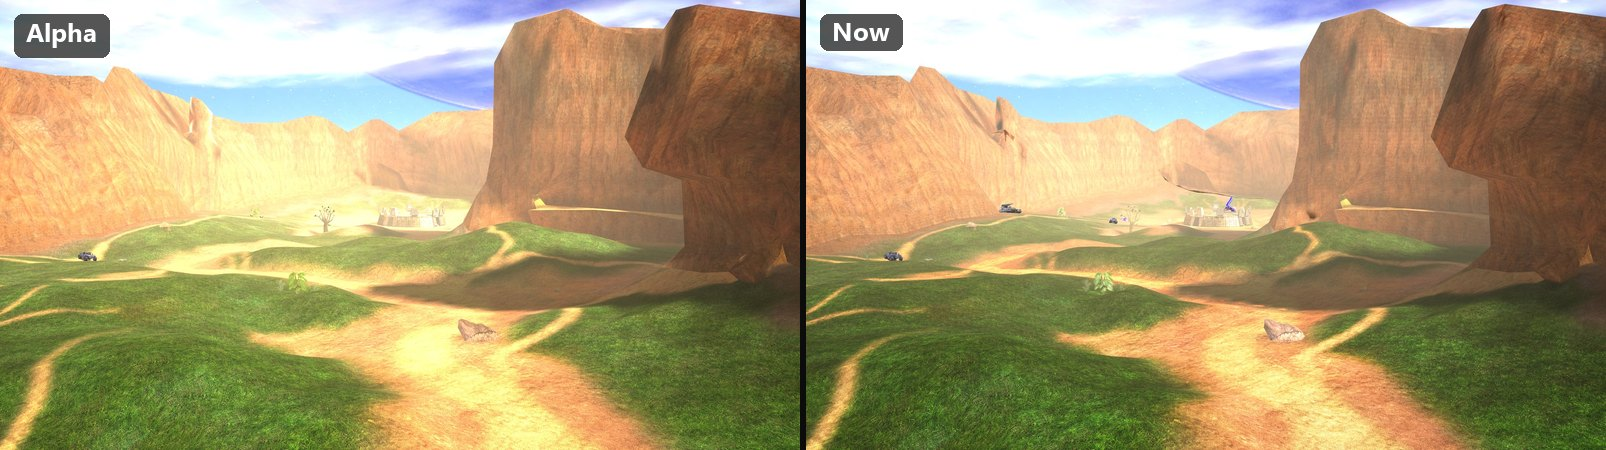
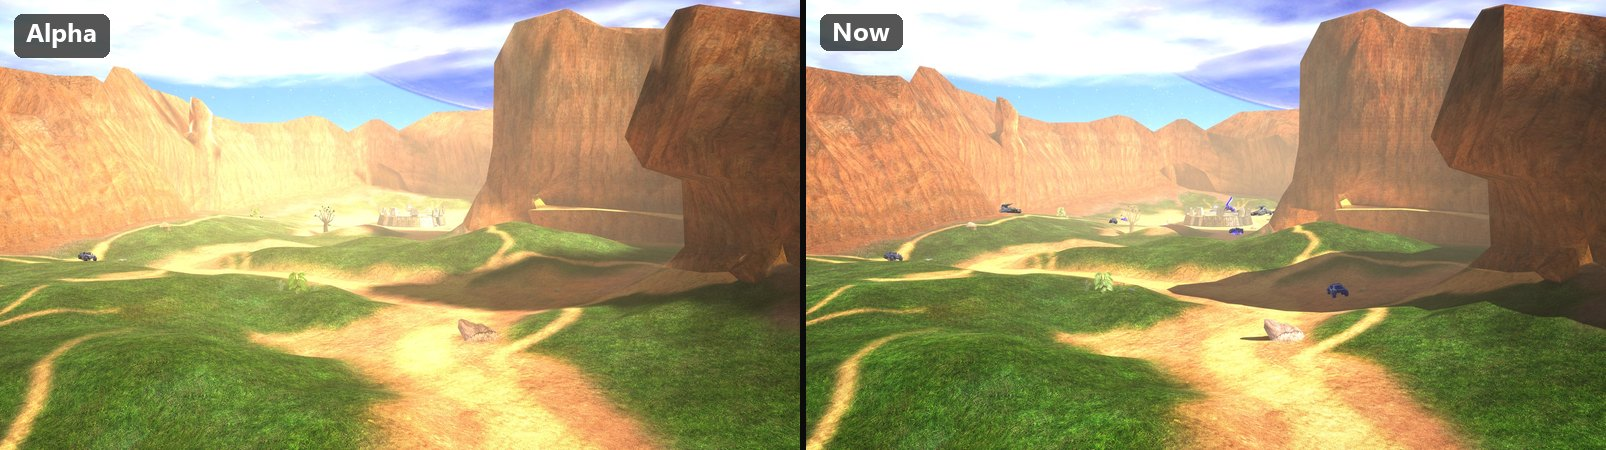
Blog: lighting the classics, updated for the 1.3.0 maps baked by our own solver

diff --git a/blog/2026-10-07-lighting-the-classics.md b/blog/2026-10-07-lighting-the-classics.md
@@ -1,13 +1,18 @@
 # Lighting the classics: teaching Unreal Engine to light Halo CE's maps
 
 **Author:** MJOLNIR Core
-**Summary:** The nineteen classic maps are now lit by Unreal Engine while still looking like Halo CE. Warthog headlights light the road, vehicles cast shadows, and Blood Gulch's corners have depth. Here is how we got there.
+**Summary:** The nineteen classic maps are lit by Unreal Engine while still looking like Halo CE, and since 1.3.0 their lightmaps are baked by our own solver at up to eight times Halo CE's resolution. Crisp shadows, lit bases, headlights on the road. Here is how we got there.
 **Tags:** multiplayer, maps, lighting
 
 ![Blood Gulch, lit by Unreal Engine with Halo CE's colours](/blog-images/lighting-the-classics/blood-gulch.jpg)
 
+*Updated 2026-10-08 for classic maps 1.3.0, CE runtime 1.4.0 and mods
+0.18.0. The maps' lightmaps are now computed by a baker of our own instead of
+being read out of Halo CE's. That is the first section below; the rest of the
+post is the 1.2.0 story it builds on.*
+
 When the classic maps came to Halo Campaign Evolved
-[five days ago](/blog/classic-multiplayer-alpha), they looked like Halo CE
+[in the alpha](/blog/classic-multiplayer-alpha), they looked like Halo CE
 because, in a sense, they *were* Halo CE: every surface carried the light
 Bungie baked into it in 2001, painted on like a photograph. That made them
 faithful, and it also made them deaf. Campaign Evolved runs on Unreal Engine 5,
@@ -15,10 +20,10 @@ which has real lights and real shadows, and none of it could reach the
 ground. Switch on a Warthog's headlights and the road stayed dark, while every
 player and vehicle in the beam turned glowing white.
 
-Today's update (classic maps 1.2.0, CE runtime 1.3.0 and mods 0.17.0) changes
-that. The maps keep Halo CE's colours and its soft shade, but the light on them
-now comes from Unreal Engine. Here's the difference between the alpha and now,
-from the same spots:
+The 1.2.0 maps changed that: they keep Halo CE's colours and its soft shade,
+but the light on them comes from Unreal Engine. The 1.3.0 maps go one step
+further and replace Bungie's lightmaps with ones we bake ourselves. Here's the
+difference between the alpha and now, from the same spots:
 
 ![Timberland, alpha and now](/blog-images/lighting-the-classics/timberland-alpha-vs-now.jpg)
 
@@ -26,11 +31,95 @@ from the same spots:
 
 ![Death Island, alpha and now](/blog-images/lighting-the-classics/death-island-alpha-vs-now.jpg)
 
-Some of that came in last week's 1.1.0 maps (shading baked into corners,
-Halo CE's own glass and water, and rocks that had been drawn black), and the
-rest is new today. The rest of this post is the story of the new part: what
-was wrong, and the handful of fixes it took. It gets technical in places, but
-you don't need to know anything about graphics to follow it.
+## Baking the light ourselves
+
+Halo CE's lightmaps were computed once, in 2001, by a tool in Bungie's
+editing kit, and stored in the map files at the resolution a 2001 PC could
+afford: a whole base shares a 256-pixel page, so one texel of light covers a
+metre of wall. Everything we did in 1.2.0 had to work from those pages. Unreal
+drew its own sharp sun shadow on the ground, but the lightmap underneath still
+carried Halo CE's blurry copy of the same shadow, and on a Blood Gulch base
+roof you could see both: a soft, stepped blob inside a crisp edge.
+
+![A pillar's shadow on a Blood Gulch base roof, 1.2.0 and 1.3.0](/blog-images/lighting-the-classics/blood-gulch-roof-shadow.jpg)
+
+The only real fix was to compute the light again, at a resolution of our
+choosing. So we wrote a radiosity solver that does what Bungie's tool did.
+The algorithm was recovered by reading the tool's own code: the sky's sun and
+fill lights as small grids of directional lights, the ambient light per
+cluster, every surface cut into patches that shoot their light at every patch
+they can see, patches that split themselves where the light changes quickly,
+and shadow rays traced through the map's collision model. The constants are
+the tool's own. We know we got it right because at Halo CE's own resolution
+our pages match Bungie's texel for texel, to within about 3 percent on most
+maps.
+
+Ours runs on every core and is quick: a map that took Bungie's tool three and
+a half minutes takes three seconds, which is what lets us run it at up to
+eight times the resolution. Blood Gulch, Danger Canyon and Death Island are
+solved at eight times, Hang 'Em High and Gephyrophobia at four. The sun and
+the sky's fill are evaluated again at every single texel, so a shadow's edge
+lands exactly where the geometry puts it.
+
+![Part of a Death Island lightmap page: Halo CE's, and ours at eight times the size](/blog-images/lighting-the-classics/lightmap-resolution.jpg)
+
+With our own pages we could also stop guessing about the sun. The solver
+writes two extra pages beside each lightmap: how much of the sun reaches each
+texel, and the light the texel holds *without* the sun, which is Halo CE's
+ambient, sky fill and bounce. The maps draw that second page as their glow,
+and Unreal's sun, shadowed by the invisible copy of the level described
+below, draws every sun shadow by itself. The one-metre sun mask of 1.2.0 is
+gone, and with it the soft fade along every shadow.
+
+### Rocks that were half dark
+
+Placed objects (boulders, trees, Covenant crates) are lit differently from
+the ground in Halo CE: the game samples the lightmap under the object and
+shades the whole object with that. In 1.2.0 our materials lit them with
+Unreal's sun as well, and the invisible level copy cast shadows across them,
+so a rock under a tree came out half dark and the tree's own boughs shadowed
+each other in ways Halo CE never drew. The 1.3.0 materials light scenery
+exactly the way Halo CE does and leave Unreal's sun off it.
+
+![Danger Canyon's rocks and trees, before and after](/blog-images/lighting-the-classics/danger-canyon-scenery.jpg)
+
+### Lighting the inside of a base
+
+Our first solves left Death Island's bases almost black. The strips of red
+and blue light along the pillars are surfaces that emit light in Halo CE, and
+in the solver they are supposed to shoot it at the walls. They never did. The
+solver stops when the average unshot light across the map drops below a
+threshold, and on an island the size of Death Island that average was met
+before thirty square metres of strip ever got their turn. Now every emitting
+surface shoots first, and the bases glow as they should.
+
+![Inside a Death Island base, 1.2.0 and 1.3.0](/blog-images/lighting-the-classics/death-island-interior.jpg)
+
+Along the way we built the map's placed light fixtures into the solver,
+twenty of them on Death Island, only to find that Halo CE's own lightmaps
+carry none of their light: the walls beside each fixture are no brighter
+than the walls elsewhere. Bungie's tool read those lights and, as far as its
+output shows, ignored them. So do we, by default.
+
+Two smaller things fell out of the same comparison. Halo CE lights its sea
+floors with a constant colour rather than a solve, so ours do too, and the
+water's surface no longer blocks the sun on the way down: a rendered surface
+that has no collision, like water or a light strip, is not in a ray's way.
+
+### Gephyrophobia's deck
+
+![Gephyrophobia's deck, 1.2.0 and 1.3.0](/blog-images/lighting-the-classics/gephyrophobia-deck.jpg)
+
+Gephyrophobia's deck was blue-purple in 1.2.0. It should not have been. The
+level loader handed Unreal the sun's colour in the wrong colour space, which
+kept half the red and green out of every sun on every map. On a near-white
+sun nobody noticed; under Gephyrophobia's dusk it tinted the whole bridge.
+Fixed in the 0.18.0 mods.
+
+Some of what follows came in last week's 1.1.0 maps (shading baked into
+corners, Halo CE's own glass and water, and rocks that had been drawn black),
+and the rest came with 1.2.0. It gets technical in places, but you don't need
+to know anything about graphics to follow it.
 
 ## Why headlights turned everything white
 
@@ -70,9 +159,11 @@ Unreal-lit terrain splits that photograph back into parts:
   normals. Every rock and panel has real relief that any light can catch.
 - **The sun, from Unreal.** Unreal's sun now lights that surface directly,
   the same way it lights players and vehicles.
-- **Everything else, from Halo CE.** Whatever Halo CE's lightmap has that
-  Unreal's sun can't explain (sky light, bounce, coloured lamps) is added back
-  as a glow, so the total still matches Halo CE.
+- **Everything else, from Halo CE.** Whatever the lightmap has that Unreal's
+  sun can't explain (sky light, bounce, coloured lamps) is added back as a
+  glow, so the total still matches Halo CE. Since 1.3.0 that glow is a page
+  of its own from our solver rather than a guess made from the finished
+  lightmap.
 
 Put those back together and the map looks like Halo CE with nothing switched
 on. When a headlight, or any other light the game makes, adds light, it now
@@ -104,19 +195,24 @@ bounced light fixed it.
 
 ## Keeping Halo CE's shade
 
+*This is how 1.2.0 did it. The 1.3.0 maps no longer need a sun mask, because
+the solver's own pages say exactly where the sun reaches.*
+
 Halo CE's shadows are soft and wide. Its lightmaps were computed at a coarse
 resolution and blurred, so the shade under Blood Gulch's bases spreads metres
 from the walls. Unreal's shadows are sharp and exact. Let Unreal's sun decide
 where shade falls and a lot of Halo CE's character disappears: a passage Halo
 CE kept dim comes out sunny.
 
-So every map now carries a **sun mask**: a map of the level, one metre square
-per cell, saying how much of Halo CE's sun reached each spot. It's traced from
-Halo CE's own lightmap when the map is converted, and Unreal's sun is filtered
-through it. Where Halo CE was in shade, the sun stays off, for the ground and
-for anyone standing there. A one-metre grid draws its own stair-step pattern
-along shadow edges, so the mask is blended over neighbouring cells, which
-turns the steps into a soft fade like Halo CE's.
+So every 1.2.0 map carried a **sun mask**: a map of the level, one metre
+square per cell, saying how much of Halo CE's sun reached each spot. It was
+traced from Halo CE's own lightmap when the map was converted, and Unreal's
+sun was filtered through it. Where Halo CE was in shade, the sun stayed off,
+for the ground and for anyone standing there. A one-metre grid draws its own
+stair-step pattern along shadow edges, so the mask was blended over
+neighbouring cells, which turned the steps into a soft fade like Halo CE's.
+That fade is what you see on the left of the roof picture above, and it is
+why the sun mask had to go once we could solve the light ourselves.
 
 ## Corners, and the trouble with triangles
 
@@ -162,7 +258,9 @@ A few smaller fixes made the difference between "interesting" and "done":
 To find these quickly, the materials gained a debug view that shows one
 lighting layer at a time on screen: the ambient occlusion, the sun mask, Halo
 CE's original lightmap and Unreal's part. Most of the bugs above were spotted
-in it before anyone guessed at a fix.
+in it before anyone guessed at a fix. The solver has its own: run at Halo CE's
+resolution it scores every page against Bungie's, and most of the 1.3.0
+findings above started as a number that was too high.
 
 ## More from the alpha to now
 
@@ -178,14 +276,16 @@ in it before anyone guessed at a fix.
 
 ## Still rough
 
-- Some cliff shadows have harder edges than Halo CE's.
+- Death Island's base interiors are a little darker than Halo CE's.
+- The 1.3.0 map packs are larger: lightmaps at eight times the resolution
+  cost a few megabytes per map, and more video memory.
 - Players standing in deep shade can still look a little brighter than Halo CE
   would draw them, because Unreal's sky light reaches them there.
 
 ## Getting it
 
 Open the launcher and, on the **Multiplayer** page, press **Install
-multiplayer** again. It fetches the 1.2.0 maps, the 1.3.0 runtime they need and
-the 0.17.0 mods. Everyone in your fireteam needs the update, so the maps
-match. Then go find a Warthog
-and wait for dusk on Timberland.
+multiplayer** again. It fetches the 1.3.0 maps, the 1.4.0 runtime they need and
+the 0.18.0 mods. Everyone in your fireteam needs the update, so the maps
+match. Then go stand on a Blood Gulch base roof at noon, or walk into a
+Death Island base.
